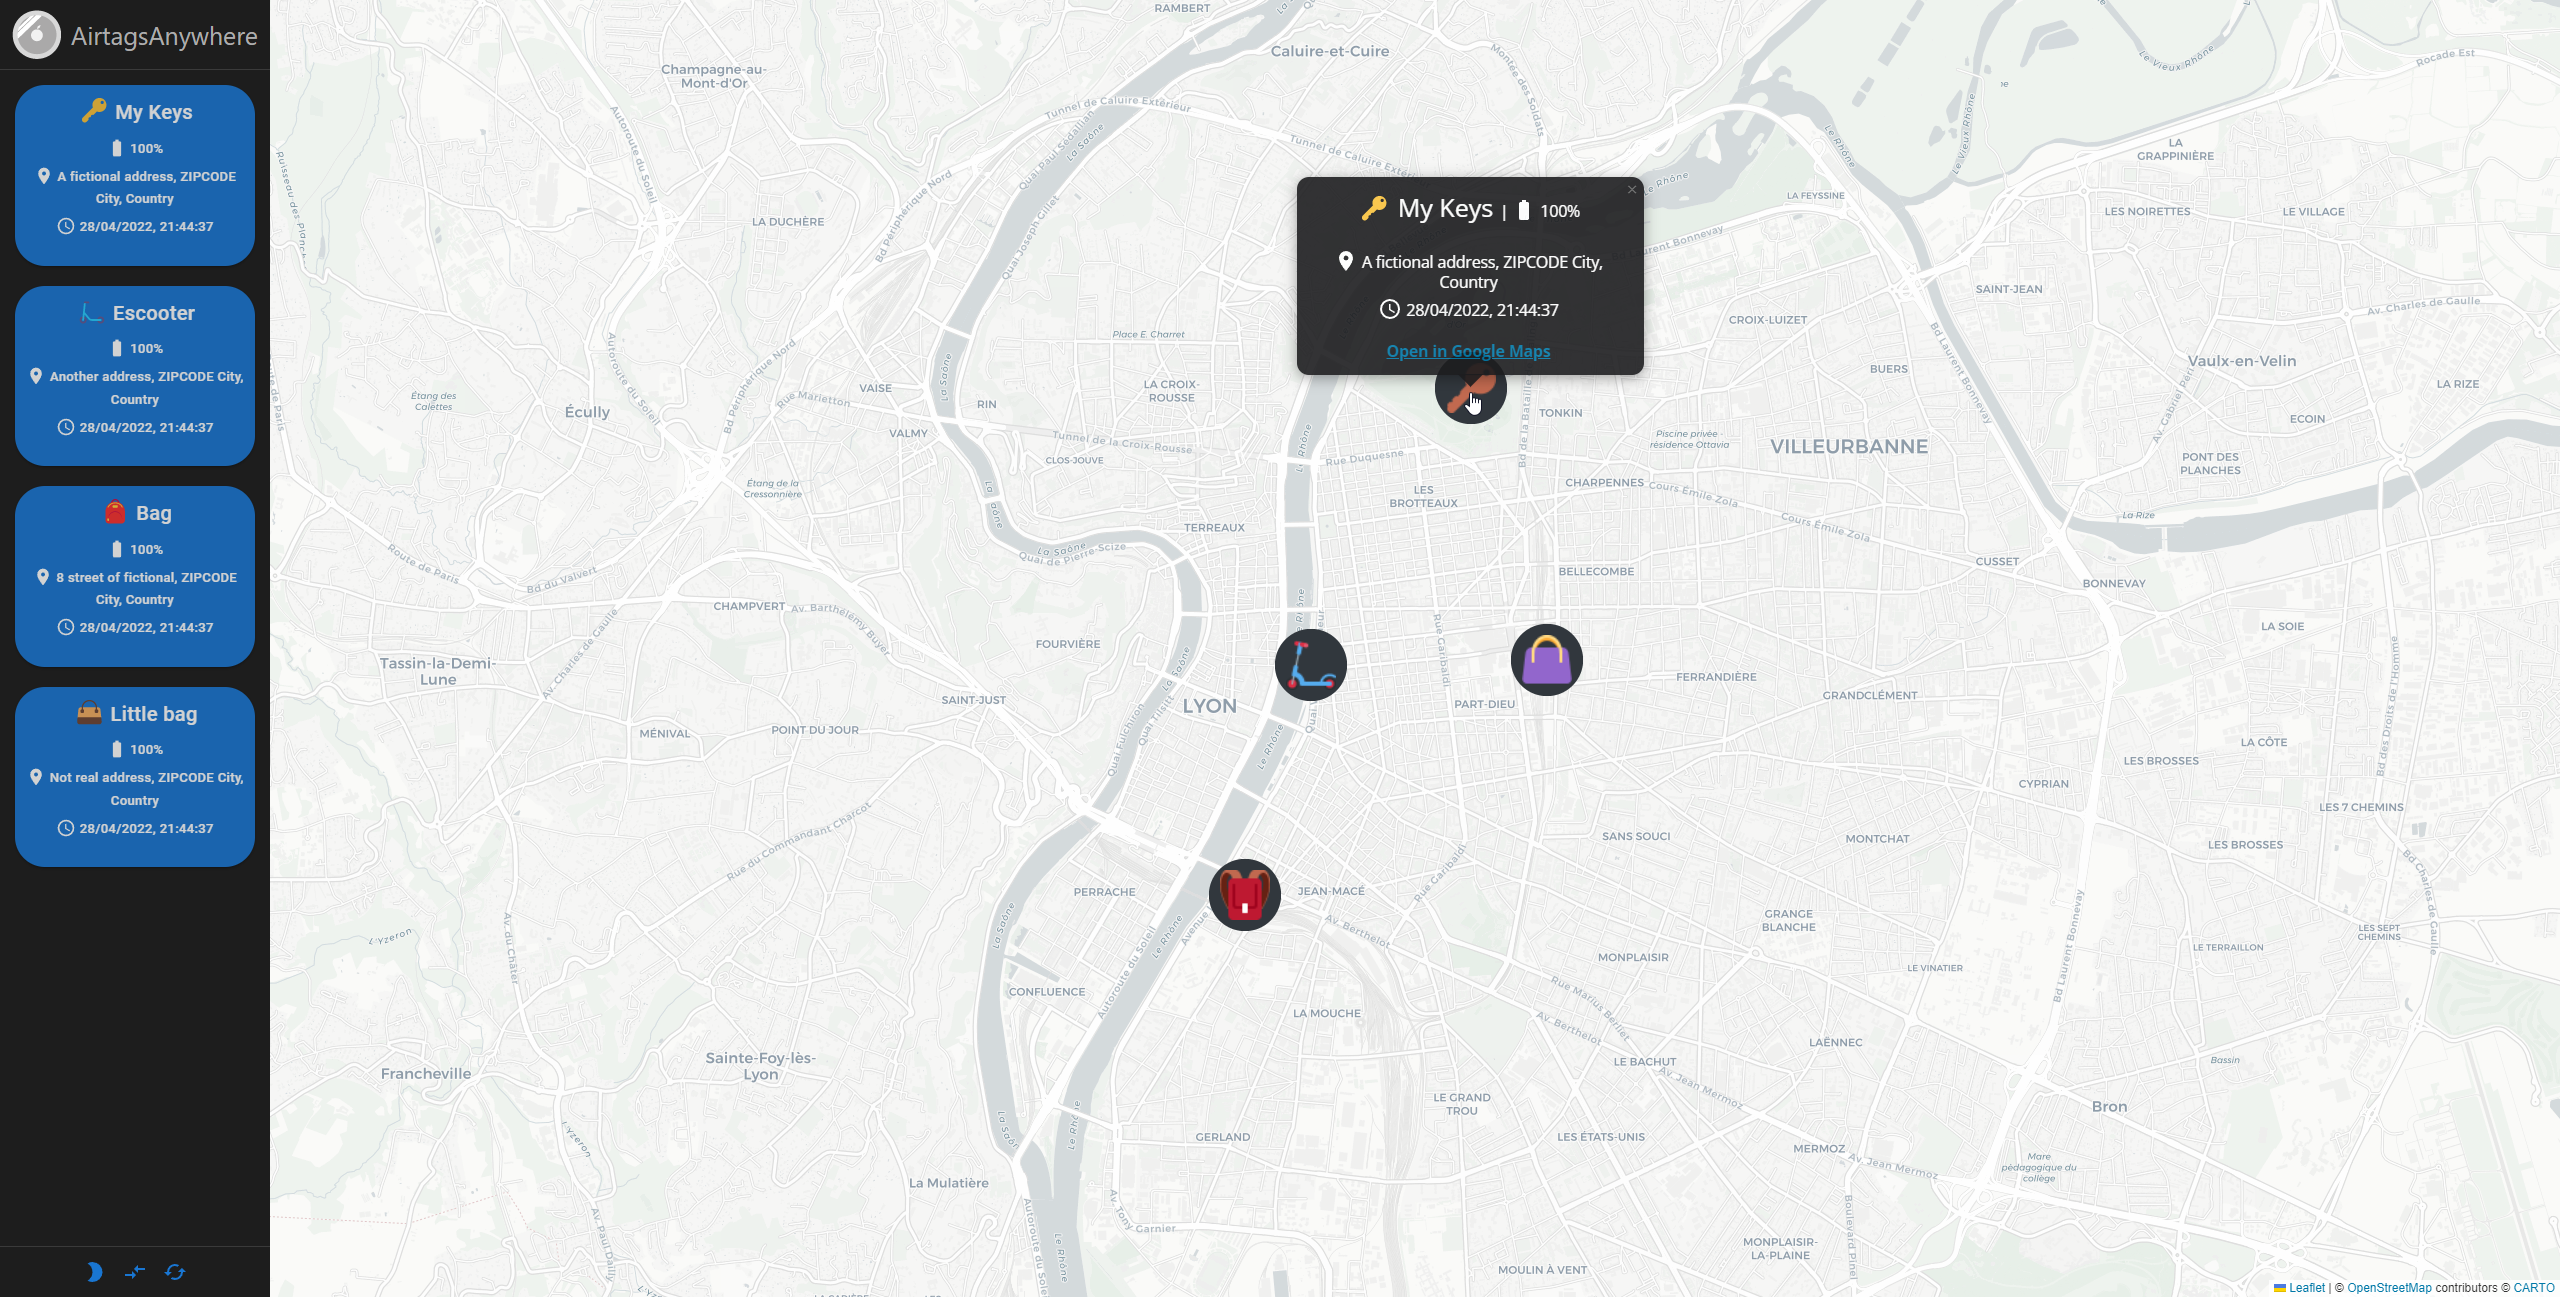
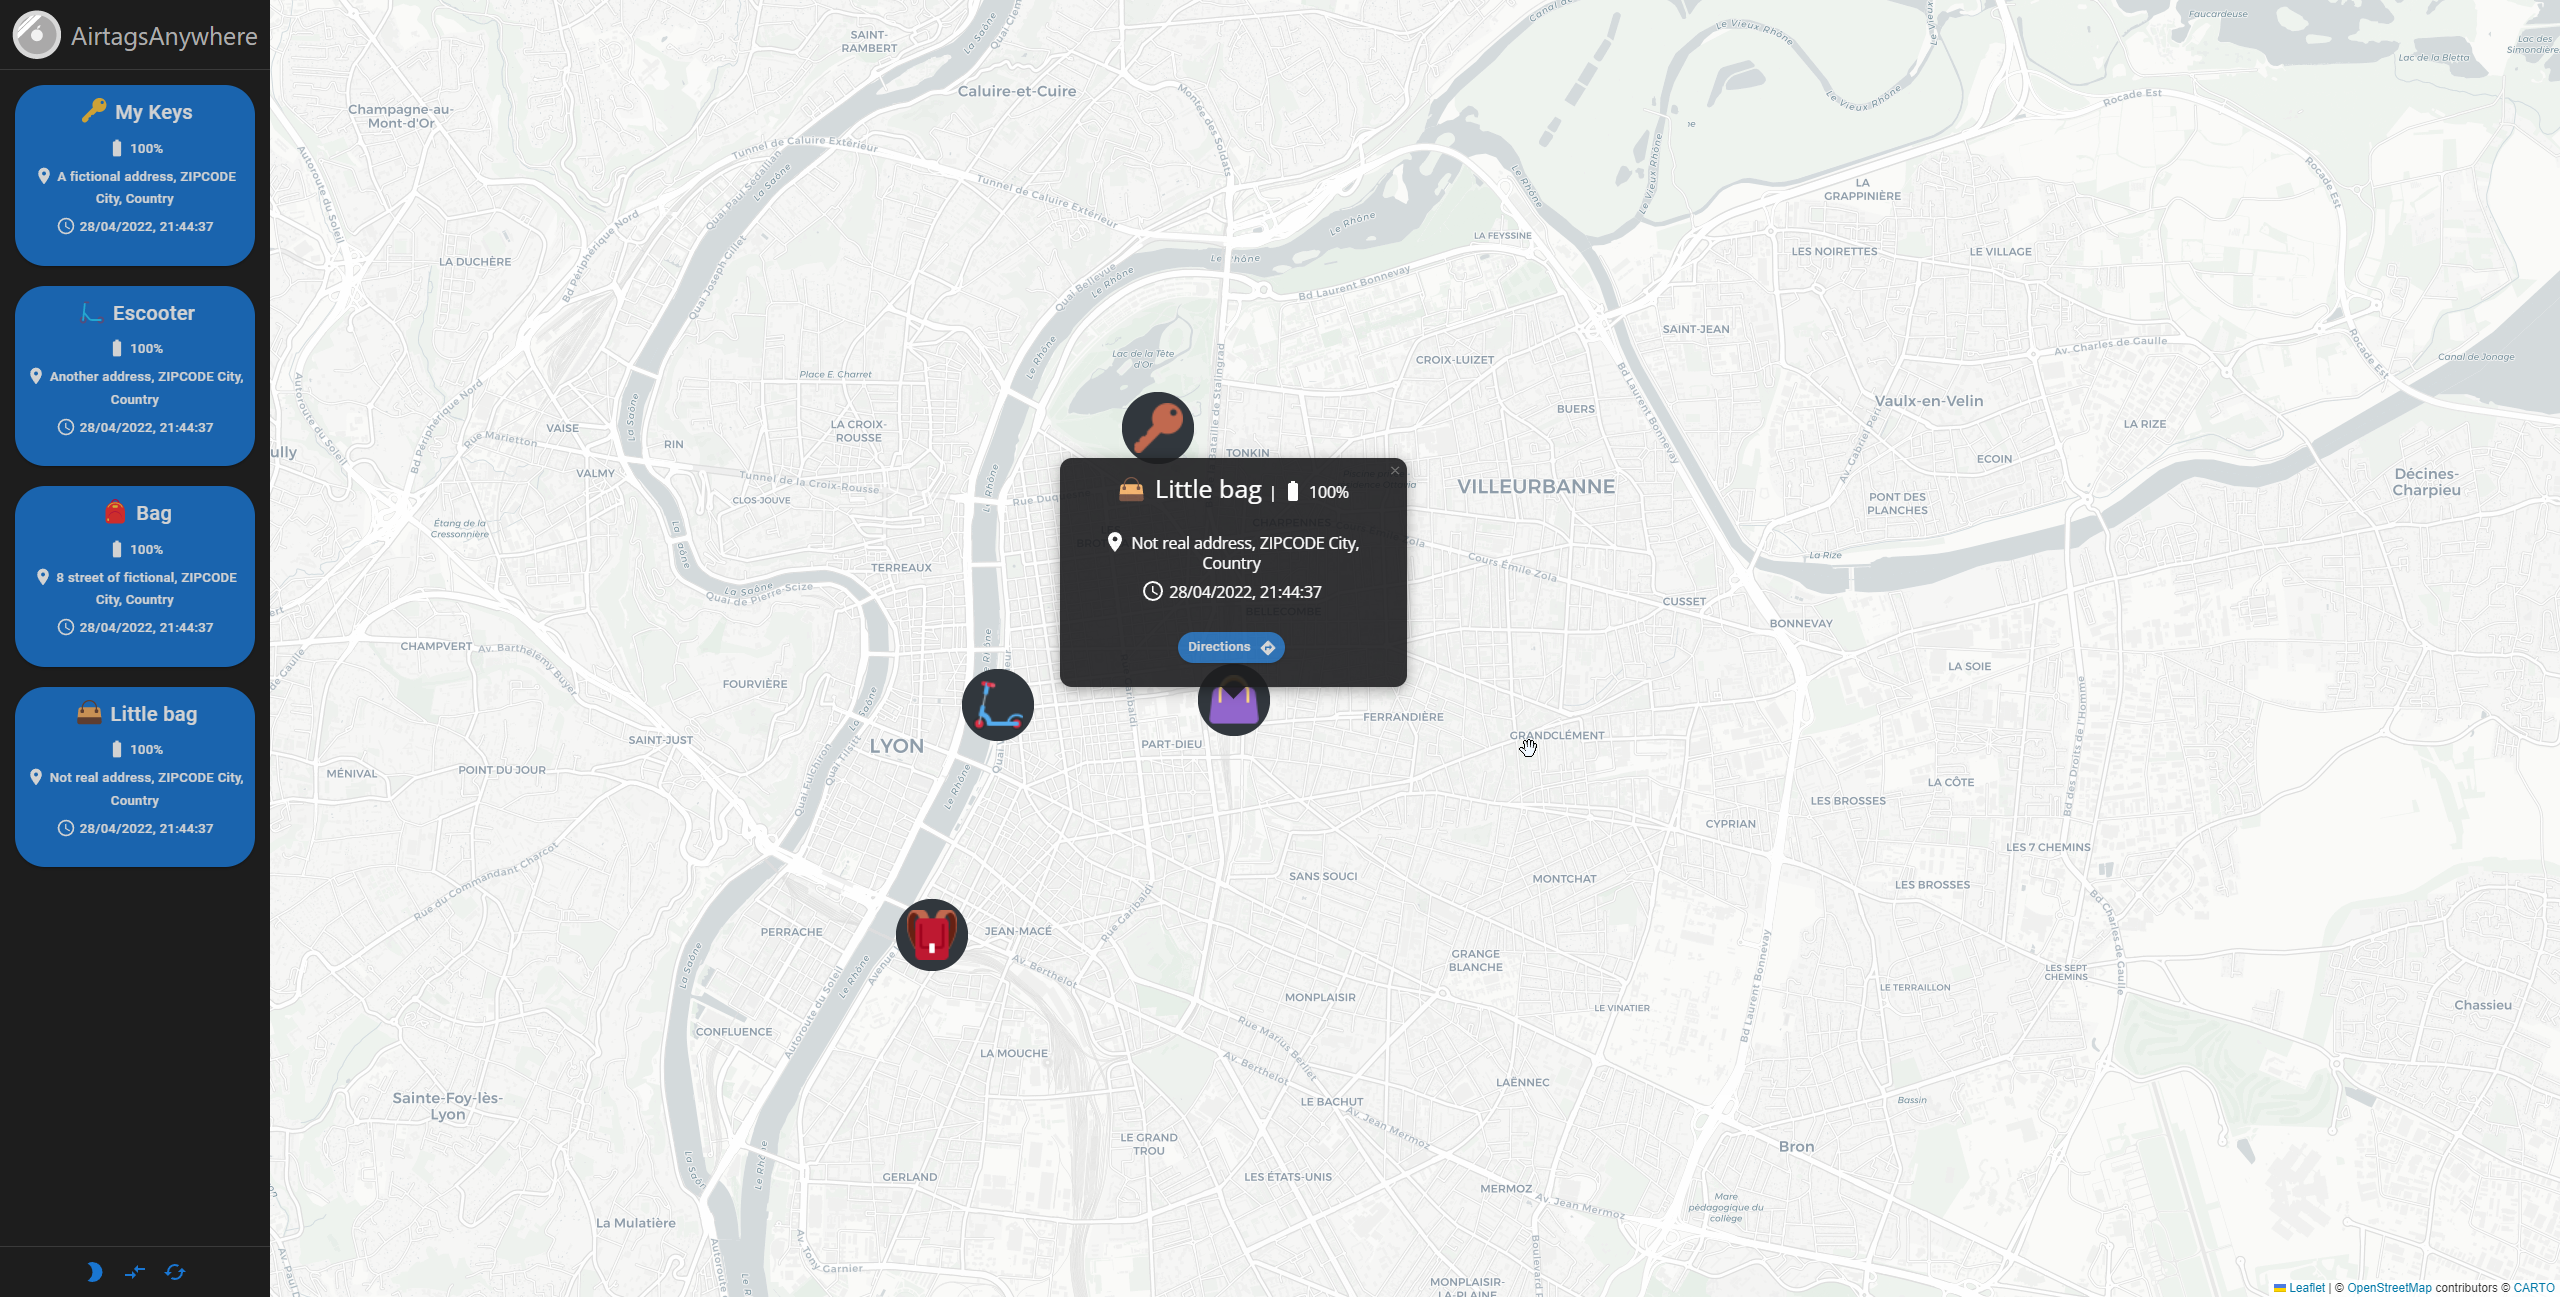
[UI] Button directions instead of hypertext

diff --git a/front_airtags/src/App.js b/front_airtags/src/App.js
@@ -14,6 +14,7 @@ import IconButton from '@mui/material/IconButton';
 import BatteryFullIcon from '@mui/icons-material/BatteryFull';
 import LocationOnIcon from '@mui/icons-material/LocationOn';
 import AccessTimeIcon from '@mui/icons-material/AccessTime';
+import DirectionsIcon from '@mui/icons-material/Directions';
 import Fab from '@mui/material/Fab';
 import configData from "./config.json";
 import './custom.scss';
@@ -39,7 +40,7 @@ class App extends Component {
         collapsed: true
       };
     }
-    
+
     this.myRef = React.createRef();
     this.light = "https://{s}.basemaps.cartocdn.com/dark_all/{z}/{x}/{y}{r}.png";
     this.dark = "https://{s}.basemaps.cartocdn.com/light_all/{z}/{x}/{y}{r}.png";
@@ -73,7 +74,7 @@ class App extends Component {
 
   render() {
     let position
-    
+
     if (this.state.data.length === 0)
       return (<div />)
     else
@@ -84,37 +85,37 @@ class App extends Component {
 
       <div>
         <Fab color="primary"
-                onClick={this.onCollapseClick.bind(this)}
-                id="collapser"
-                variant="contained"
-                style={{
-                  margin: 5,
-                  borderRadius: 20,
-                }}>
-                <CompareArrowsIcon/>
+          onClick={this.onCollapseClick.bind(this)}
+          id="collapser"
+          variant="contained"
+          style={{
+            margin: 5,
+            borderRadius: 20,
+          }}>
+          <CompareArrowsIcon />
         </Fab>
         <ProSidebar
-        id="sidebar"
-        collapsed={this.state.collapsed}>
-            <SidebarHeader style={{
-              display: "flex",
-              justifyContent: "center",
-              alignItems: "center",
-              gap: 10,
-              paddingTop: 10,
-              paddingBottom: 10,
-            }}
+          id="sidebar"
+          collapsed={this.state.collapsed}>
+          <SidebarHeader style={{
+            display: "flex",
+            justifyContent: "center",
+            alignItems: "center",
+            gap: 10,
+            paddingTop: 10,
+            paddingBottom: 10,
+          }}
             onClick={() => window.open('https://github.com/DylanAkp/AirtagsAnywhere')}>
-              <img src="images/logo.png" alt="AirtagsAnywhere Logo"></img> <span style={{
-                fontSize: 25
-              }}>AirtagsAnywhere</span>
-            </SidebarHeader>
-            <SidebarContent style={{
-              padding: 5,
-            }}>
-              {this.state.data.map(air => (
-                <Button
-                
+            <img src="images/logo.png" alt="AirtagsAnywhere Logo"></img> <span style={{
+              fontSize: 25
+            }}>AirtagsAnywhere</span>
+          </SidebarHeader>
+          <SidebarContent style={{
+            padding: 5,
+          }}>
+            {this.state.data.map(air => (
+              <Button
+
                 style={{
                   margin: 10,
                   borderRadius: 30,
@@ -122,40 +123,40 @@ class App extends Component {
                   fontFamily: 'Roboto',
                   opacity: 0.8,
                 }}
-                  variant="contained" size="small"
-                  onClick={() => window.open('https://www.google.com/maps?q=' + air.coords[0] + ',' + air.coords[1], '_blank')}>
+                variant="contained" size="small"
+                onClick={() => window.open('https://www.google.com/maps?q=' + air.coords[0] + ',' + air.coords[1], '_blank')}>
 
-                  <center><span style={{fontSize:25}}>{air.emote}</span> <span style={{fontSize:20}}>{air.name}</span>  <br /> <BatteryFullIcon fontSize='small' style={{position: 'relative', top: '5px'}} /> {air.battery}% <br />
-                  <LocationOnIcon fontSize="small" style={{position: 'relative', top: '5px'}}/> {air.address}<br />
-                  <AccessTimeIcon fontSize="small" style={{position: 'relative', top: '5px'}}/> {air.date}<br /><br />
-                  </center>
-                </Button>
-              ))}
-            </SidebarContent>
-            <SidebarFooter
-              style={{
-                display: "flex",
-                justifyContent: "center",
-                alignItems: "center",
-                padding: 5,
-              }}>
-              <IconButton color="primary"
-                onClick={this.onClick.bind(this)}>
-                <ModeNightIcon/>
-                  
-              </IconButton>
-              <IconButton color="primary"
-                onClick={this.onCollapseClick.bind(this)}>
-                <CompareArrowsIcon/>
-              </IconButton>
-              
-              <IconButton color="primary"
-                onClick={refreshPage}>
-                  <CachedIcon/>
-              </IconButton>
+                <center><span style={{ fontSize: 25 }}>{air.emote}</span> <span style={{ fontSize: 20 }}>{air.name}</span>  <br /> <BatteryFullIcon fontSize='small' style={{ position: 'relative', top: '5px' }} /> {air.battery}% <br />
+                  <LocationOnIcon fontSize="small" style={{ position: 'relative', top: '5px' }} /> {air.address}<br />
+                  <AccessTimeIcon fontSize="small" style={{ position: 'relative', top: '5px' }} /> {air.date}<br /><br />
+                </center>
+              </Button>
+            ))}
+          </SidebarContent>
+          <SidebarFooter
+            style={{
+              display: "flex",
+              justifyContent: "center",
+              alignItems: "center",
+              padding: 5,
+            }}>
+            <IconButton color="primary"
+              onClick={this.onClick.bind(this)}>
+              <ModeNightIcon />
+
+            </IconButton>
+            <IconButton color="primary"
+              onClick={this.onCollapseClick.bind(this)}>
+              <CompareArrowsIcon />
+            </IconButton>
+
+            <IconButton color="primary"
+              onClick={refreshPage}>
+              <CachedIcon />
+            </IconButton>
 
 
-            </SidebarFooter>
+          </SidebarFooter>
         </ProSidebar>
         <MapContainer
           id="airmap"
@@ -179,7 +180,24 @@ class App extends Component {
 
               position={air.coords}>
               <Popup id={air.sn}>
-                <center> <span style={{fontSize:25}}>{air.emote} {air.name} </span> | <BatteryFullIcon style={{position: 'relative', top: '5px'}}/> {air.battery}% <br /><br /><LocationOnIcon style={{position: 'relative', top: '5px'}}/> {air.address} <br /><AccessTimeIcon style={{position: 'relative', top: '5px'}}/> {air.date} <br /><br /> <b><a href={'https://www.google.com/maps?q=' + air.coords[0] + ',' + air.coords[1]}>Open in Google Maps</a></b></center>
+                <center>
+                  <span style={{ fontSize: 25 }}>{air.emote} {air.name} </span> | <BatteryFullIcon style={{ position: 'relative', top: '5px' }} /> {air.battery}% <br />
+                  <br /><LocationOnIcon style={{ position: 'relative', top: '5px' }} /> {air.address} <br /><AccessTimeIcon style={{ position: 'relative', top: '5px' }} /> {air.date} <br />
+                  <br />
+                  <Button endIcon={<DirectionsIcon />}
+                    style={{
+                      margin: 10,
+                      borderRadius: 30,
+                      textTransform: 'none',
+                      fontFamily: 'Roboto',
+                      opacity: 0.8,
+                    }}
+                    variant="contained" size="small"
+                    onClick={() => window.open('https://www.google.com/maps?q=' + air.coords[0] + ',' + air.coords[1], '_blank')}>
+
+                    <center>Directions</center>
+                  </Button>
+                </center>
               </Popup>
             </Marker>
           ))}
